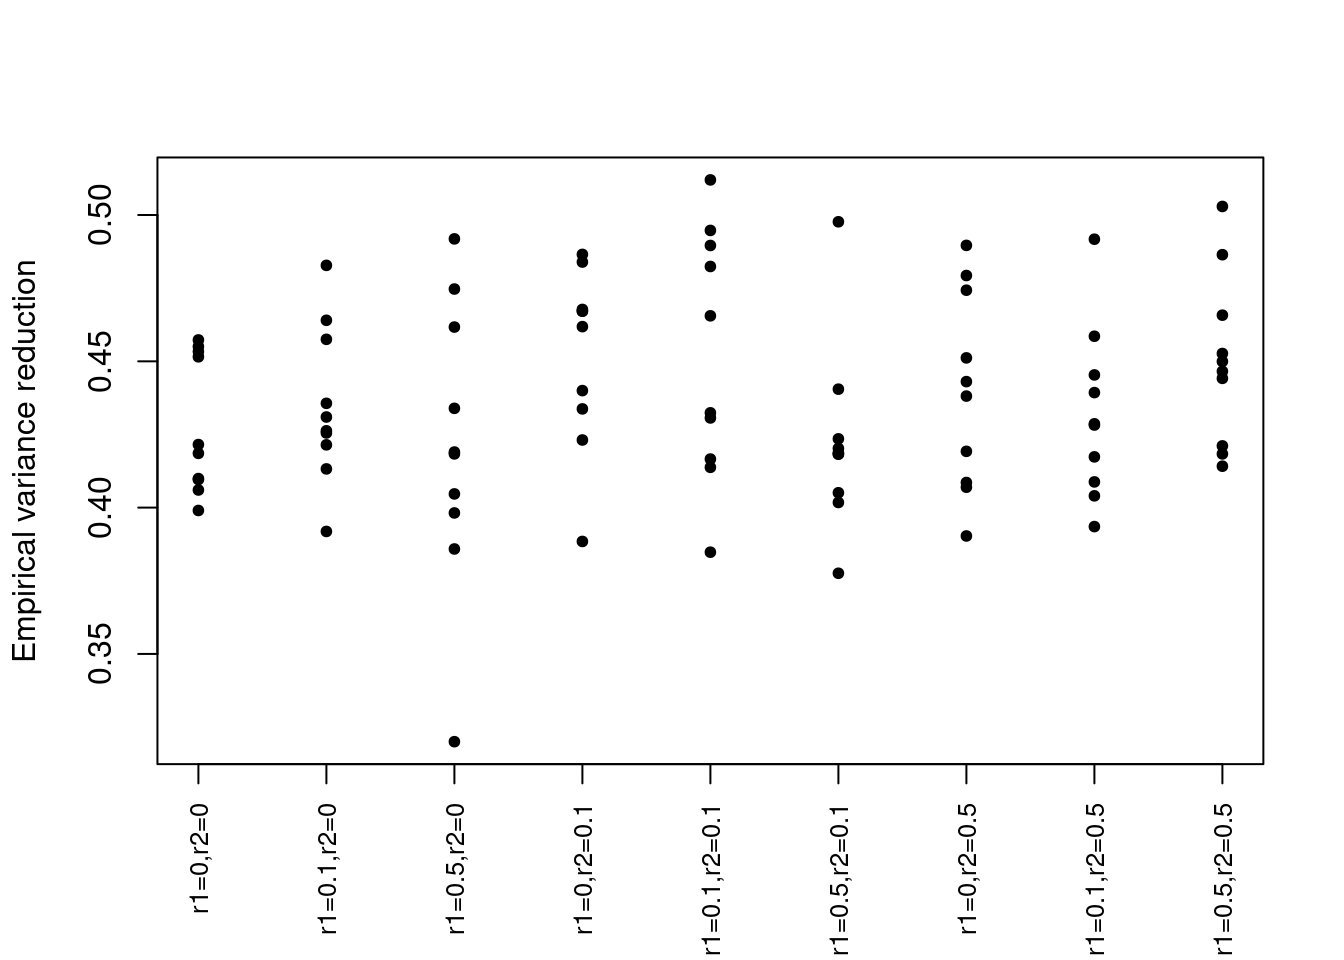
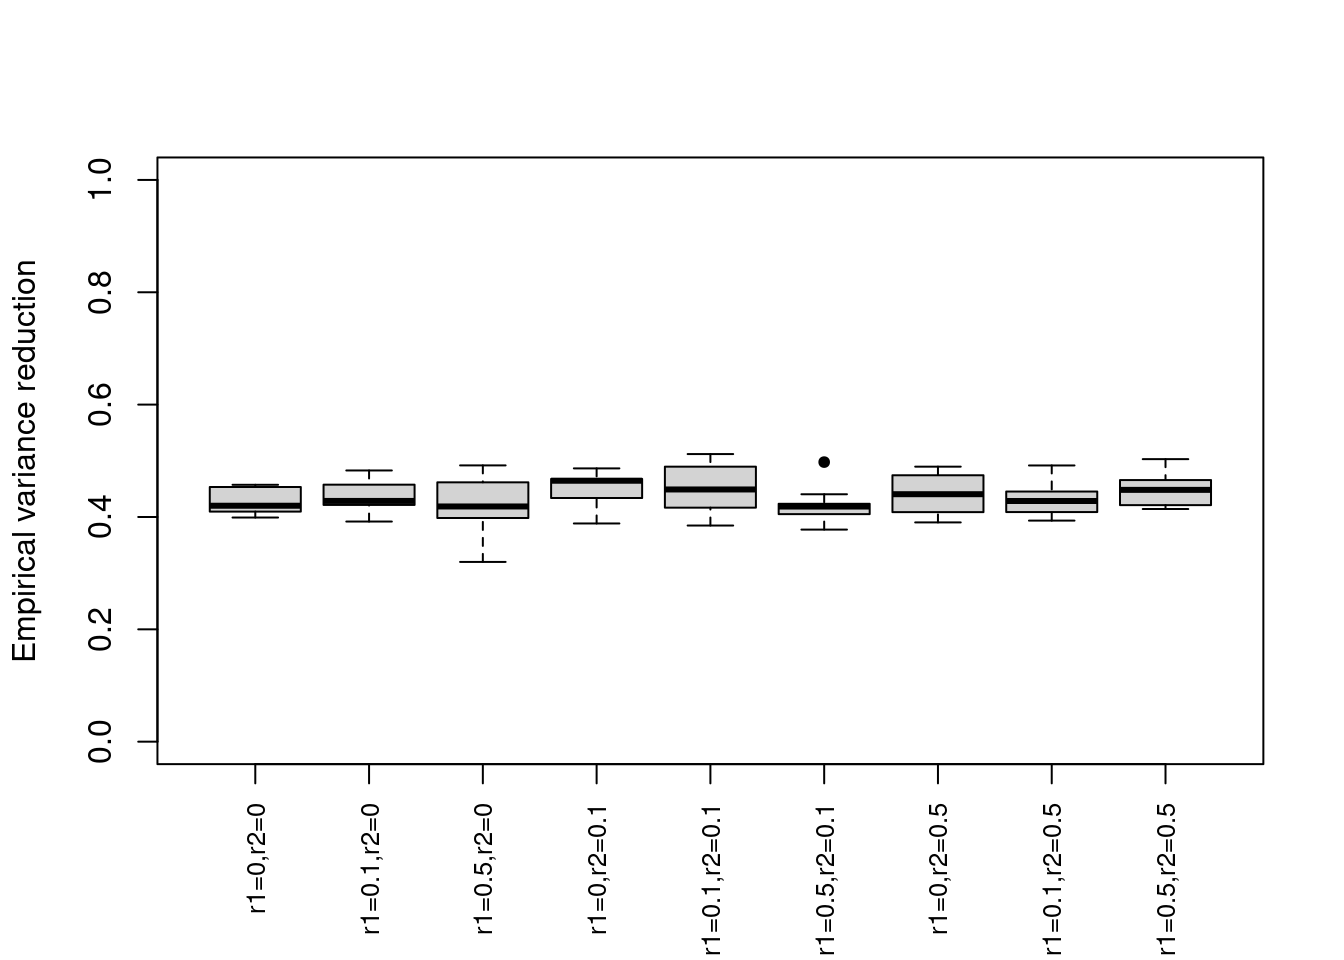
Build site.

diff --git a/docs/calibration_trio.html b/docs/calibration_trio.html
@@ -391,7 +391,7 @@ class="glyphicon glyphicon-ok text-success" aria-hidden="true"></span>
 <div class="tab-content">
 <div id="summary" class="tab-pane fade in active">
 <p>
-<strong>Last updated:</strong> 2024-04-10
+<strong>Last updated:</strong> 2024-04-12
 </p>
 <p>
 <strong>Checks:</strong> <span
@@ -522,15 +522,15 @@ project makes it easier to run your code on other machines.</p>
 <div class="panel panel-default">
 <div class="panel-heading">
 <p class="panel-title">
-<a data-toggle="collapse" data-parent="#workflowr-checks" href="#strongRepositoryversionstrongahrefhttpsgithubcomyunqiyang0215simulationcalibratedmrtree06d9223493bc09af6596b011090a124c23aada1ftargetblank06d9223a">
+<a data-toggle="collapse" data-parent="#workflowr-checks" href="#strongRepositoryversionstrongahrefhttpsgithubcomyunqiyang0215simulationcalibratedmrtreed734c754e7b4f6d995ed3bb9ae5a281012a8e624targetblankd734c75a">
 <span class="glyphicon glyphicon-ok text-success"
 aria-hidden="true"></span> <strong>Repository version:</strong>
-<a href="https://github.com/yunqiyang0215/simulation-calibrated-mr/tree/06d9223493bc09af6596b011090a124c23aada1f" target="_blank">06d9223</a>
+<a href="https://github.com/yunqiyang0215/simulation-calibrated-mr/tree/d734c754e7b4f6d995ed3bb9ae5a281012a8e624" target="_blank">d734c75</a>
 </a>
 </p>
 </div>
 <div
[2 lines of base64/hex data omitted]
 class="panel-collapse collapse">
 <div class="panel-body">
 <p>
@@ -540,7 +540,7 @@ reproducibility.
 </p>
 <p>
 The results in this page were generated with repository version
-<a href="https://github.com/yunqiyang0215/simulation-calibrated-mr/tree/06d9223493bc09af6596b011090a124c23aada1f" target="_blank">06d9223</a>.
+<a href="https://github.com/yunqiyang0215/simulation-calibrated-mr/tree/d734c754e7b4f6d995ed3bb9ae5a281012a8e624" target="_blank">d734c75</a>.
 See the <em>Past versions</em> tab to see a history of the changes made
 to the R Markdown and HTML files.
 </p>
@@ -560,6 +560,7 @@ Ignored files:
     Ignored:    .Rproj.user/
 
 Unstaged changes:
+    Modified:   analysis/calibration_sibling.Rmd
     Modified:   analysis/mr_bias.Rmd
     Deleted:    analysis/mr_result.Rmd
 
@@ -607,6 +608,40 @@ Message
 </tr>
 </thead>
 <tbody>
+<tr>
+<td>
+Rmd
+</td>
+<td>
+<a href="https://github.com/yunqiyang0215/simulation-calibrated-mr/blob/d734c754e7b4f6d995ed3bb9ae5a281012a8e624/analysis/calibration_trio.Rmd" target="_blank">d734c75</a>
+</td>
+<td>
+yunqi yang
+</td>
+<td>
+2024-04-12
+</td>
+<td>
+wflow_publish("analysis/calibration_trio.Rmd")
+</td>
+</tr>
+<tr>
+<td>
+html
+</td>
+<td>
+<a href="https://rawcdn.githack.com/yunqiyang0215/simulation-calibrated-mr/465810c48369d12852aabe9ded81776c12165d74/docs/calibration_trio.html" target="_blank">465810c</a>
+</td>
+<td>
+yunqi yang
+</td>
+<td>
+2024-04-10
+</td>
+<td>
+Build site.
+</td>
+</tr>
 <tr>
 <td>
 Rmd
@@ -732,9 +767,9 @@ rownames(vr) = r1
 
 # Create a vector for equally spaced x-values
 x_values = c(1, 2, 3)
-plot(x = rep(x_values, p), y = c(vr), xlab = &quot;r1 value&quot;, ylab = &quot;Empirical variance reduction&quot;, xaxt=&quot;n&quot;, pch = 20)
+plot(x = as.factor(rep(x_values, p)), y = c(vr), xlab = &quot;r1 value&quot;, ylab = &quot;Empirical variance reduction&quot;, xaxt=&quot;n&quot;, pch = 20,ylim = c(0, 1), boxwex = 0.5)
 axis(1, at = x_values, labels = c(&quot;0&quot;, &quot;0.1&quot;, &quot;0.5&quot;))</code></pre>
-<p><img src="figure/calibration_trio.Rmd/unnamed-chunk-4-1.png" width="672" style="display: block; margin: auto;" /></p>
+<p><img src="figure/calibration_trio.Rmd/unnamed-chunk-4-1.png" width="384" style="display: block; margin: auto;" /></p>
 <p>
 <button type="button" class="btn btn-default btn-xs btn-workflowr btn-workflowr-fig" data-toggle="collapse" data-target="#fig-unnamed-chunk-4-1">
 Past versions of unnamed-chunk-4-1.png
@@ -757,6 +792,17 @@ Date
 </tr>
 </thead>
 <tbody>
+<tr>
+<td>
+<a href="https://github.com/yunqiyang0215/simulation-calibrated-mr/blob/465810c48369d12852aabe9ded81776c12165d74/docs/figure/calibration_trio.Rmd/unnamed-chunk-4-1.png" target="_blank">465810c</a>
+</td>
+<td>
+yunqi yang
+</td>
+<td>
+2024-04-10
+</td>
+</tr>
 <tr>
 <td>
 <a href="https://github.com/yunqiyang0215/simulation-calibrated-mr/blob/c0b56fdd7210cee7b61c8af850a6b94d397b657a/docs/figure/calibration_trio.Rmd/unnamed-chunk-4-1.png" target="_blank">c0b56fd</a>
@@ -807,8 +853,8 @@ for (i in 1:p) {
 <pre class="r"><code>vr &lt;- (empirical_var_raw - empirical_var_cali) / empirical_var_raw
 combination_labels &lt;- apply(combinations, 1, function(x) paste0(&quot;r1=&quot;, x[1], &quot;,r2=&quot;, x[2]))
 x_values = 1:length(combination_labels)
-plot(x = rep(x_values, p), c(vr), type = &quot;p&quot;,
-     xaxt = &#39;n&#39;, xlab = &quot;&quot;, ylab = &quot;Empirical variance reduction&quot;, pch = 20)
+plot(x = as.factor(rep(x_values, p)), c(vr), type = &quot;p&quot;,
+     xaxt = &#39;n&#39;, xlab = &quot;&quot;, ylab = &quot;Empirical variance reduction&quot;, pch = 20, ylim = c(0, 1))
 axis(side = 1, at = c(1:length(combination_labels)), labels = rep(combination_labels), las = 2, cex.axis = 0.8)</code></pre>
 <p><img src="figure/calibration_trio.Rmd/unnamed-chunk-6-1.png" width="672" style="display: block; margin: auto;" /></p>
 <p>
@@ -833,6 +879,17 @@ Date
 </tr>
 </thead>
 <tbody>
+<tr>
+<td>
+<a href="https://github.com/yunqiyang0215/simulation-calibrated-mr/blob/465810c48369d12852aabe9ded81776c12165d74/docs/figure/calibration_trio.Rmd/unnamed-chunk-6-1.png" target="_blank">465810c</a>
+</td>
+<td>
+yunqi yang
+</td>
+<td>
+2024-04-10
+</td>
+</tr>
 <tr>
 <td>
 <a href="https://github.com/yunqiyang0215/simulation-calibrated-mr/blob/9840970b26e51b2afb47cda0b80128fb410be032/docs/figure/calibration_trio.Rmd/unnamed-chunk-6-1.png" target="_blank">9840970</a>
@@ -910,6 +967,17 @@ Date
 <tbody>
 <tr>
 <td>
+<a href="https://github.com/yunqiyang0215/simulation-calibrated-mr/blob/465810c48369d12852aabe9ded81776c12165d74/docs/figure/calibration_trio.Rmd/unnamed-chunk-9-1.png" target="_blank">465810c</a>
+</td>
+<td>
+yunqi yang
+</td>
+<td>
+2024-04-10
+</td>
+</tr>
+<tr>
+<td>
 <a href="https://github.com/yunqiyang0215/simulation-calibrated-mr/blob/c0b56fdd7210cee7b61c8af850a6b94d397b657a/docs/figure/calibration_trio.Rmd/unnamed-chunk-9-1.png" target="_blank">c0b56fd</a>
 </td>
 <td>
@@ -984,6 +1052,17 @@ Date
 </tr>
 </thead>
 <tbody>
+<tr>
+<td>
+<a href="https://github.com/yunqiyang0215/simulation-calibrated-mr/blob/465810c48369d12852aabe9ded81776c12165d74/docs/figure/calibration_trio.Rmd/unnamed-chunk-11-1.png" target="_blank">465810c</a>
+</td>
+<td>
+yunqi yang
+</td>
+<td>
+2024-04-10
+</td>
+</tr>
 <tr>
 <td>
 <a href="https://github.com/yunqiyang0215/simulation-calibrated-mr/blob/9840970b26e51b2afb47cda0b80128fb410be032/docs/figure/calibration_trio.Rmd/unnamed-chunk-11-1.png" target="_blank">9840970</a>
